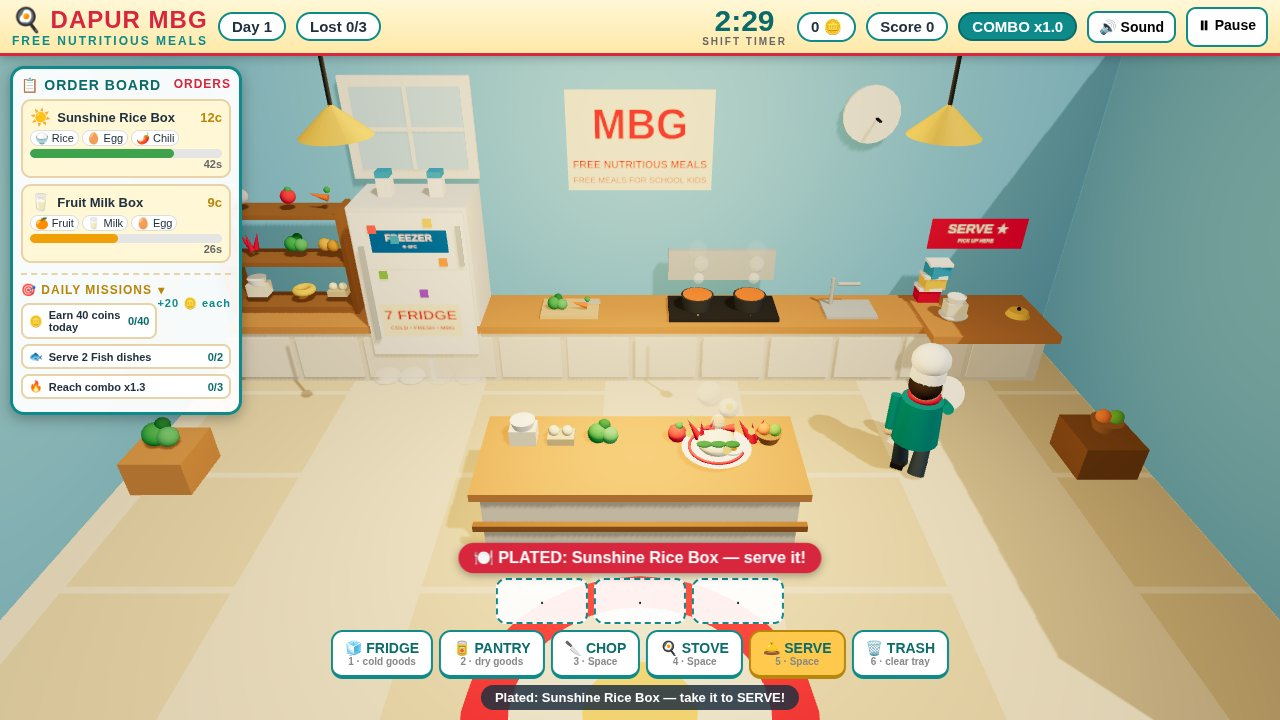
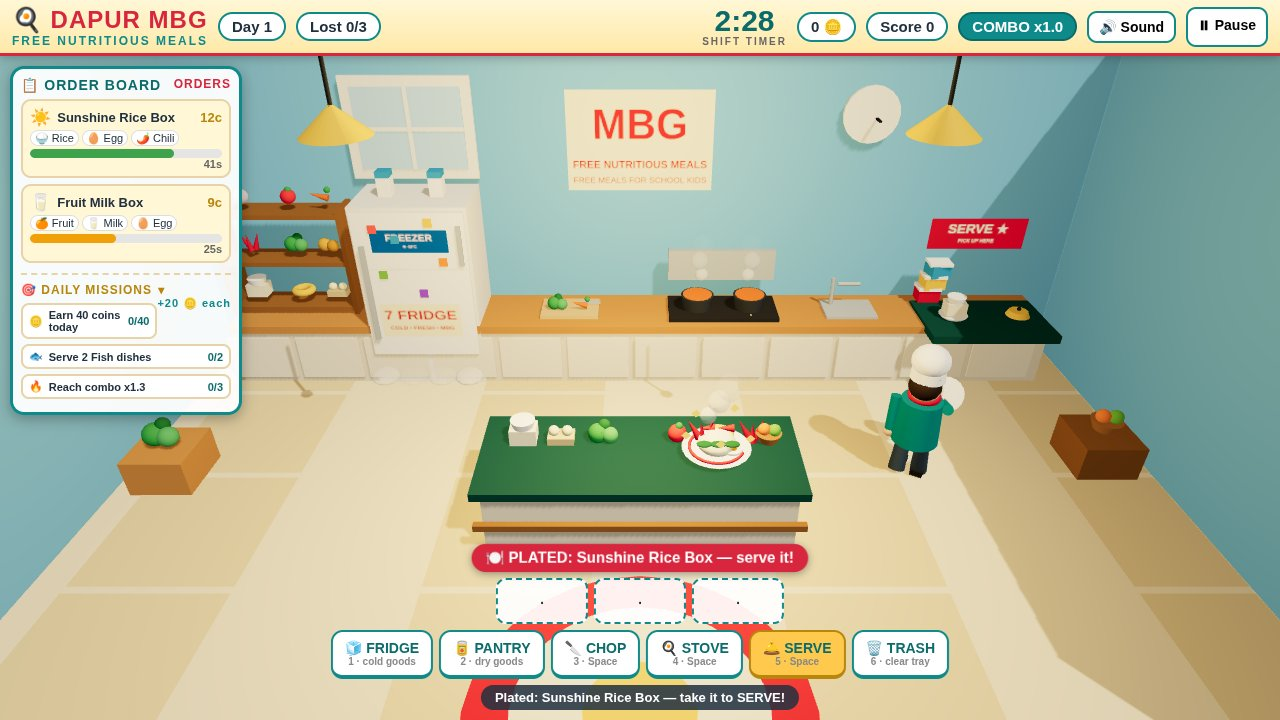
Dark teal island + serve tops for plate contrast

diff --git a/game/src/kitchen.js b/game/src/kitchen.js
@@ -12,6 +12,10 @@ const WHITE = 0xf8f8f4;
 const STEEL = 0xb9c2c9;
 const WOOD = 0xc98d4e;
 const WOOD_DARK = 0x9a6a33;
+// Dark teal-green for the two tops where plates sit (island + serve window):
+// white plates and warm food (rice, noodle, egg, garnish) pop against it,
+// where they washed out on the light wood. Matches Chef Sari's teal shirt.
+const COUNTER_DARK = 0x14524a;
 
 function mat(color, rough = 0.85, metal = 0.0) {
   return new THREE.MeshStandardMaterial({ color, roughness: rough, metalness: metal });
@@ -365,7 +369,7 @@ export function buildKitchen(scene) {
 
   // ---- SERVE WINDOW (right end of the back counter) ----
   const serve = new THREE.Group();
-  serve.add(box(1.9, 0.12, 1.2, WOOD, 0, 1.0, 0.35));
+  serve.add(box(1.9, 0.12, 1.2, COUNTER_DARK, 0, 1.0, 0.35));
   const bell = new THREE.Group();
   bell.add(cyl(0.14, 0.18, 0.08, 0xffc94d, 0, 0.06, 0, 18));
   bell.add(sph(0.03, 0x333333, 0, 0.13, 0)); bell.position.set(0.55, 1.06, 0.3); serve.add(bell);
@@ -387,7 +391,7 @@ export function buildKitchen(scene) {
   // ---- CENTRAL ISLAND (assembly counter) ----
   const island = new THREE.Group();
   island.add(box(3.6, 0.9, 1.3, 0xe8e2d4, 0, 0.45, 0));
-  island.add(box(3.8, 0.1, 1.5, WOOD, 0, 0.95, 0));
+  island.add(box(3.8, 0.1, 1.5, COUNTER_DARK, 0, 0.95, 0));
   island.add(box(3.8, 0.08, 0.08, WOOD_DARK, 0, 0.5, 0.72));
   // ingredients waiting on the island (a full, busy counter)
   const islandGoods = [['rice', -1.4], ['egg', -0.95], ['veggies', -0.45], ['tomato', 0.45], ['noodle', 0.95], ['chili', 1.35], ['fruit', 1.55]];
